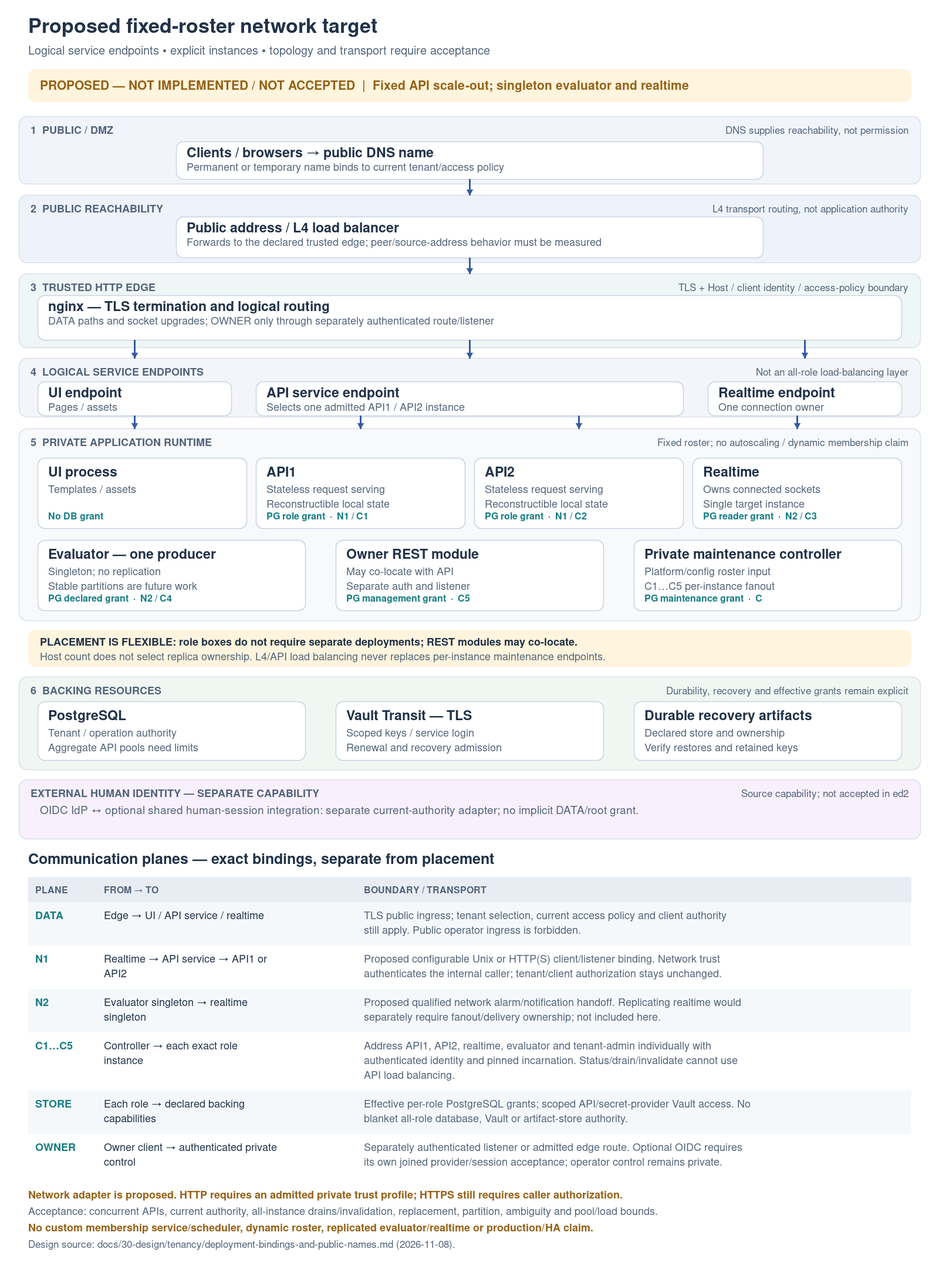
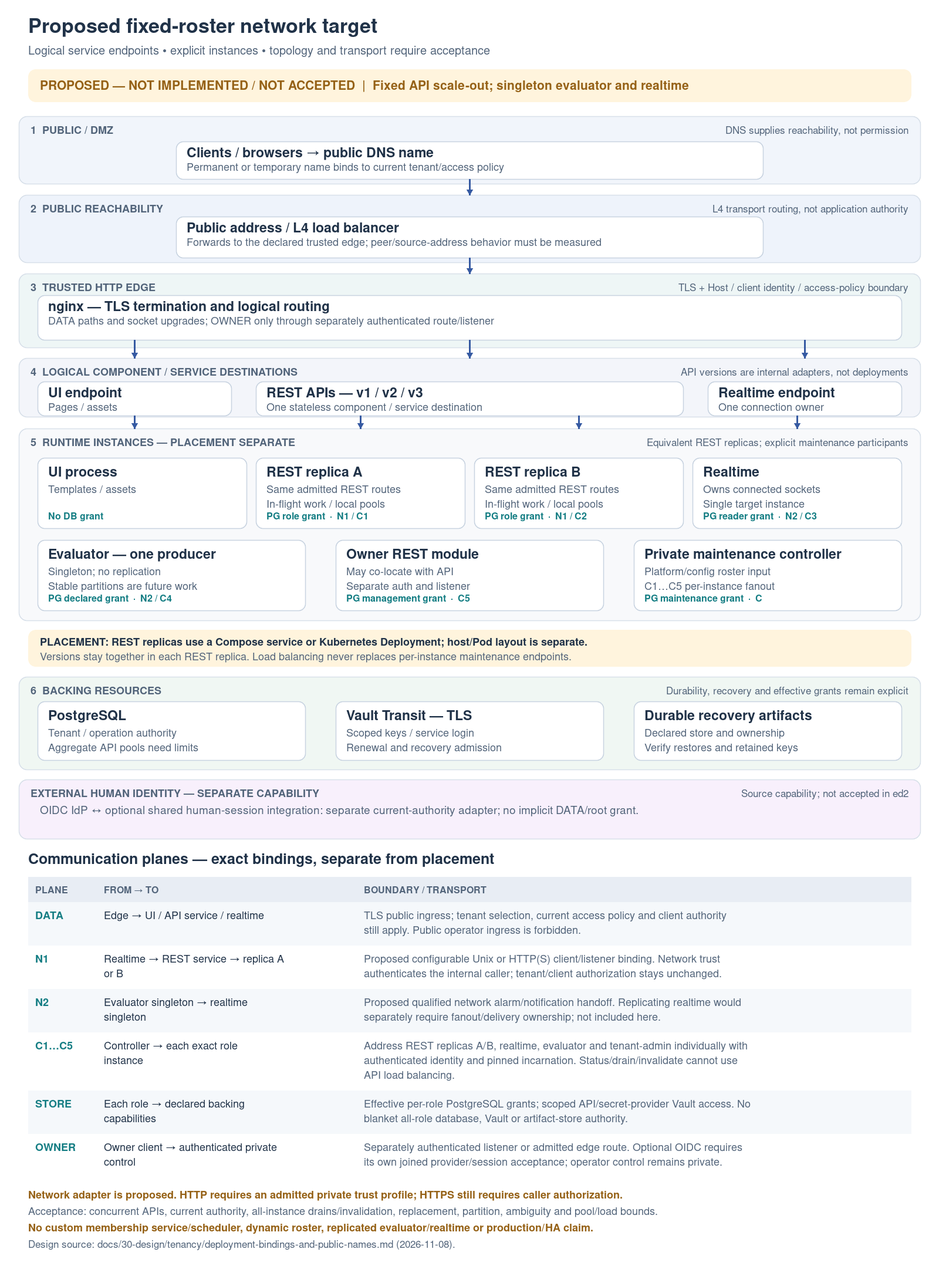
Show versioned REST APIs as one stateless component

diff --git a/tools/site/render_tenancy_topologies.py b/tools/site/render_tenancy_topologies.py
@@ -97,12 +97,12 @@ def accepted():
     p.zone(350, 167, '2  EDGE TRUST BOUNDARY', 'Accepted public-facing protocol: HTTP', '#eef6f6')
     p.card(64, 392, 1472, 'nginx — logical routing', ['Preserve configured Host; strip selector headers; public owner/operator paths refused'], h=94)
     p.zone(535, 105, '3  LOGICAL PUBLIC ENDPOINTS', 'Endpoints are not extra processes', '#f3f5fa')
-    for x,w,title,lines in [(64,456,'UI / assets',['Shipping UI']), (572,456,'DATA / API',['Existing versioned routes']), (1080,456,'DATA / realtime',['Main and alarm sockets'])]:
+    for x,w,title,lines in [(64,456,'UI / assets',['Shipping UI']), (572,456,'REST APIs',['Admitted versioned routes']), (1080,456,'DATA / realtime',['Main and alarm sockets'])]:
         p.card(x,577,w,title,lines,h=60)
     for x in [292,800,1308]:
         p.arrow([(x,486),(x,535)])
     p.zone(659, 330, '4  PRIVATE APPLICATION RUNTIME', 'Separate role processes; fixed participant roster', '#f8f9fb')
-    for x,title,lines,terminal in [(64,'UI process',['Templates and assets','No DB credentials'],'DATA: public edge only'),(572,'API process',['Request frames / writes','Current tenant authority'],'PG: role grant  ·  Vault: scoped'),(1080,'Realtime process',['Owns connections / frames','Forwards mutations to API'],'PG: reader grant  ·  U1 / U2')]:
+    for x,title,lines,terminal in [(64,'UI process',['Templates and assets','No DB credentials'],'DATA: public edge only'),(572,'REST APIs process',['Admitted v1 / v2 / v3 adapters','Stateless request serving'],'PG: role grant  ·  Vault: scoped'),(1080,'Realtime process',['Owns connections / frames','Forwards mutations to API'],'PG: reader grant  ·  U1 / U2')]:
         p.card(x,706,456,title,lines,terminal,h=120)
     for x in [292,800,1308]:
         p.arrow([(x,637),(x,659)])
@@ -137,12 +137,12 @@ def proposed():
     p.arrow([(800,439),(800,466)])
     p.zone(466,126,'3  TRUSTED HTTP EDGE', 'TLS + Host / client identity / access-policy boundary', '#eef6f6')
     p.card(64,503,1472,'nginx — TLS termination and logical routing',['DATA paths and socket upgrades; OWNER only through separately authenticated route/listener'],h=76)
-    p.zone(610,100,'4  LOGICAL SERVICE ENDPOINTS', 'Not an all-role load-balancing layer', '#f3f5fa')
-    for x,w,title,lines in [(64,330,'UI endpoint',['Pages / assets']),(436,728,'API service endpoint',['Selects one admitted API1 / API2 instance']),(1206,330,'Realtime endpoint',['One connection owner'])]:
+    p.zone(610,100,'4  LOGICAL COMPONENT / SERVICE DESTINATIONS', 'API versions are internal adapters, not deployments', '#f3f5fa')
+    for x,w,title,lines in [(64,330,'UI endpoint',['Pages / assets']),(436,728,'REST APIs — v1 / v2 / v3',['One stateless component / service destination']),(1206,330,'Realtime endpoint',['One connection owner'])]:
         p.card(x,650,w,title,lines,h=58)
     for x in [229,800,1371]:p.arrow([(x,579),(x,610)])
-    p.zone(730,327,'5  PRIVATE APPLICATION RUNTIME', 'Fixed roster; no autoscaling / dynamic membership claim', '#f8f9fb')
-    for x,title,lines,term in [(64,'UI process',['Templates / assets'],'No DB grant'),(436,'API1',['Stateless request serving','Reconstructible local state'],'PG role grant  ·  N1 / C1'),(808,'API2',['Stateless request serving','Reconstructible local state'],'PG role grant  ·  N1 / C2'),(1180,'Realtime',['Owns connected sockets','Single target instance'],'PG reader grant  ·  N2 / C3')]:
+    p.zone(730,327,'5  RUNTIME INSTANCES — PLACEMENT SEPARATE', 'Equivalent REST replicas; explicit maintenance participants', '#f8f9fb')
+    for x,title,lines,term in [(64,'UI process',['Templates / assets'],'No DB grant'),(436,'REST replica A',['Same admitted REST routes','In-flight work / local pools'],'PG role grant  ·  N1 / C1'),(808,'REST replica B',['Same admitted REST routes','In-flight work / local pools'],'PG role grant  ·  N1 / C2'),(1180,'Realtime',['Owns connected sockets','Single target instance'],'PG reader grant  ·  N2 / C3')]:
         p.card(x,780,356,title,lines,term,h=120)
     p.arrow([(229,708),(229,730)])
     p.arrow([(614,708),(614,730)])
@@ -151,8 +151,8 @@ def proposed():
     for x,title,lines,term in [(64,'Evaluator — one producer',['Singleton; no replication','Stable partitions are future work'],'PG declared grant  ·  N2 / C4'),(572,'Owner REST module',['May co-locate with API','Separate auth and listener'],'PG management grant  ·  C5'),(1080,'Private maintenance controller',['Platform/config roster input','C1…C5 per-instance fanout'],'PG maintenance grant  ·  C')]:
         p.card(x,920,456,title,lines,term,h=120)
     p.rect(48,1073,1504,62,'#fff4dd','none')
-    p.text(68,1100,'PLACEMENT IS FLEXIBLE: role boxes do not require separate deployments; REST modules may co-locate.',18,INK,'600')
-    p.text(68,1125,'Host count does not select replica ownership. L4/API load balancing never replaces per-instance maintenance endpoints.',18,MUTED)
+    p.text(68,1100,'PLACEMENT: REST replicas use a Compose service or Kubernetes Deployment; host/Pod layout is separate.',18,INK,'600')
+    p.text(68,1125,'Versions stay together in each REST replica. Load balancing never replaces per-instance maintenance endpoints.',18,MUTED)
     p.zone(1153,158,'6  BACKING RESOURCES', 'Durability, recovery and effective grants remain explicit', '#f0f7f3')
     for x,title,lines in [(64,'PostgreSQL',['Tenant / operation authority','Aggregate API pools need limits']), (572,'Vault Transit — TLS',['Scoped keys / service login','Renewal and recovery admission']), (1080,'Durable recovery artifacts',['Declared store and ownership','Verify restores and retained keys'])]:
         p.card(x,1195,456,title,lines,h=100)
@@ -160,9 +160,9 @@ def proposed():
     p.text(68,1387,'OIDC IdP ↔ optional shared human-session integration: separate current-authority adapter; no implicit DATA/root grant.',19,MUTED)
     y=p.table(1472,[
         ('DATA','Edge → UI / API service / realtime','TLS public ingress; tenant selection, current access policy and client authority still apply. Public operator ingress is forbidden.'),
-        ('N1','Realtime → API service → API1 or API2','Proposed configurable Unix or HTTP(S) client/listener binding. Network trust authenticates the internal caller; tenant/client authorization stays unchanged.'),
+        ('N1','Realtime → REST service → replica A or B','Proposed configurable Unix or HTTP(S) client/listener binding. Network trust authenticates the internal caller; tenant/client authorization stays unchanged.'),
         ('N2','Evaluator singleton → realtime singleton','Proposed qualified network alarm/notification handoff. Replicating realtime would separately require fanout/delivery ownership; not included here.'),
-        ('C1…C5','Controller → each exact role instance','Address API1, API2, realtime, evaluator and tenant-admin individually with authenticated identity and pinned incarnation. Status/drain/invalidate cannot use API load balancing.'),
+        ('C1…C5','Controller → each exact role instance','Address REST replicas A/B, realtime, evaluator and tenant-admin individually with authenticated identity and pinned incarnation. Status/drain/invalidate cannot use API load balancing.'),
         ('STORE','Each role → declared backing capabilities','Effective per-role PostgreSQL grants; scoped API/secret-provider Vault access. No blanket all-role database, Vault or artifact-store authority.'),
         ('OWNER','Owner client → authenticated private control','Separately authenticated listener or admitted edge route. Optional OIDC requires its own joined provider/session acceptance; operator control remains private.'),
     ])

diff --git a/docs/30-design/tenancy/tenant-admission-and-activity.md b/docs/30-design/tenancy/tenant-admission-and-activity.md
@@ -1,7 +1,8 @@
 # Tenant admission, activity and recovery
 
-*Contributor-facing decision-preparation guide, 2026-11-08. **Proposed policy;
-not adopted or implemented by this document.** The maintainer raised whether operator-controlled tenant inactivity should
+*Contributor-facing decision-preparation guide, 2026-11-08. **Activity policy proposed;
+not adopted or implemented.** The REST component direction below is recorded
+separately in the [release decisions](../../../releases/cgm-remote-monitor-16.0.0/decisions.md#rest-api-component-and-replica-placement-2026-11-08). The maintainer raised whether operator-controlled tenant inactivity should
 prevent unnecessary background work and asks how business APIs,
 connector workers, evaluator and restoration fit together. This guide separates
 that proposal from the existing maintenance protocol. Mechanism assessment is
@@ -14,9 +15,33 @@ and [owner authority](owner-authority.md) retain their adopted meaning.*
 
 ## One logical API does not require one listener or process
 
-The business REST surface can be understood as one logical component with data,
-authorization and owner-management capabilities. A logical component describes
-responsibility. A listener describes who can reach which interface and with which
+**Architecture direction: REST APIs (v1/v2/v3) are one stateless request-serving
+component.** Version-specific routers/adapters live inside that component; API
+version numbers do not select separate processes, services or scaling groups.
+Each replica serves the same configured, admitted route set. Compose service
+instances and a Kubernetes Deployment are alternative placement/lifecycle
+mechanisms for that component; neither is a new route-acceptance claim or a
+requirement to demonstrate Kubernetes now.
+
+“Stateless” means no replica owns authoritative tenant data or an exclusive
+clinical evaluation workload. Durable authority, clinical state and operation
+records remain in their backing stores. Each replica still owns connections,
+in-flight responses, pools and reconstructible startup/cache state, so it must
+participate in maintenance drain and invalidation. Do not require client affinity
+or introduce per-version deployment boundaries as part of API scale-out.
+
+The source already composes configured API3 and legacy routers in one API role:
+[preview-api.js:110](https://github.com/nightscout/cgm-remote-monitor/blob/ed2ced00c80bd0a6a7d75f834d2c6e2af8c71364/lib/server/serve/preview-api.js#L110),
+[tenant-app/index.js:187](https://github.com/nightscout/cgm-remote-monitor/blob/ed2ced00c80bd0a6a7d75f834d2c6e2af8c71364/lib/server/tenant-app/index.js#L187),
+[:217](https://github.com/nightscout/cgm-remote-monitor/blob/ed2ced00c80bd0a6a7d75f834d2c6e2af8c71364/lib/server/tenant-app/index.js#L217).
+These read-derived mechanisms support the component boundary; the acceptance
+family still owns exactly which routes/clients were exercised. Internal
+v1/v2/v3 adapters retain their reply, authentication and compatibility rules.
+
+The business REST surface groups data, authorization and owner-management
+capabilities. Owner operations retain their separate audience/listener and
+privileges, even when their module is colocated with request-serving API. A
+logical component describes responsibility. A listener describes who can reach which interface and with which
 audience. A process describes placement, resource custody and failure coupling.
 Grouping REST business APIs does not merge their credentials, privileges or trust
 boundaries, and it does not put every worker or maintenance engine inside HTTP

diff --git a/releases/cgm-remote-monitor-16.0.0/contents.md b/releases/cgm-remote-monitor-16.0.0/contents.md
@@ -2055,3 +2055,12 @@ Local lane handoff: `externals/work/HANDOFF-database-site-20261108.md`.
 | Tenant admission | [Activity/admission review](../../docs/30-design/tenancy/tenant-admission-and-activity.md) separates proposed operator resource policy from claim-bound maintenance safety, observed health and current authority. APIs honor common admission/drain/invalidation without each owning restore orchestration. | The user raised operator inactivity as a design question; no inactive/pause/suspend schema, capability default or transition authority is adopted. Existing pause/suspend definitions stand. Restore completion must be considered separately from operator eligibility in the proposed acceptance cases. |
 | Queue and decision index | Reconciled current TEN-RESOLVE and T30-TENANT-ADMIN gaps against later bounded acceptance; retained native gate pins and historical scope. MT-API-FIXED-ROSTER links generic admission obligations; the decision index now exposes the unresolved activity-policy topic. | Claimed states unchanged; runtime/activity implementation remains unmeasured. No new parent prerequisite, milestone promotion, release or production admission. |
 | Deployment/map assumptions | Linked the deployment guide and platform map to the selected endpoint/API scaling plan and adopted application database-ownership contract. | Fixed-roster API scaling is separate from evaluator replication; stronger raw-writer fencing is required only for an additional unsupported writer model. Historical captures unchanged. |
+
+
+### Update — unified REST component and separate replica placement (2026-11-08)
+
+| Scope | Recorded change | Boundary |
+|---|---|---|
+| REST component | [Current component contract](../../docs/30-design/tenancy/tenant-admission-and-activity.md#one-logical-api-does-not-require-one-listener-or-process) and D5 clarify one stateless REST APIs component containing version-specific v1/v2/v3 adapters. Endpoint/scaling/binding plans retain equivalent configured routes across replicas. | Read-derived source composition supports the architecture; no runtime or route-acceptance promotion. Transient request/pool/cache state still requires maintenance participation. |
+| Figures and historical guidance | Topology plates show one REST component and separately named replicas A/B. Accepted one-host plate retains the measured process composition. Older interface/deployable snapshots link the current contract; a separate v1-role option is historical, not the selected direction. | Existing version-specific compatibility, owner/DATA audiences, private orchestration and worker ownership remain. Captured evidence unchanged. |
+| Coordination | Database visual-review lane updates its SQL/component diagrams and platform map links from the same logical component boundary, then joins by ordinary merge. | Queue IDs/states, source/instrument attribution, existing route coverage and unmeasured scaling/cluster boundaries remain. |

diff --git a/releases/cgm-remote-monitor-16.0.0/decisions.md b/releases/cgm-remote-monitor-16.0.0/decisions.md
@@ -423,3 +423,10 @@ deployment has run.
 |---|---|---|---|
 | **Plan and queue selectable UDS/HTTP(S) endpoints and fixed-roster independent API scaling, preserving restore and existing clients.** | maintainer, 2026-11-08 | MT-ENDPOINT-TRANSPORT, MT-API-FIXED-ROSTER | [Implementation plan](../../docs/30-design/tenancy/selectable-endpoints-and-api-scaling-plan.md) defines source/instrument boundaries and planned controls. Runtime implementation and acceptance are not started/UNMEASURED. Keep service routing separate from per-instance restore addressing; no transport trust/default chosen implicitly. |
 | **Keep evaluator work singly owned; reuse orchestration primitives rather than building another membership service or scheduler. Kubernetes is an architecture frame and Jsonnet/deployment proof may be deferred.** | maintainer, 2026-11-08, scope clarification | Architecture and implementation plan | Current evaluator remains singleton. Predictable bounded work may favor singleton deployment when measured headroom and restart availability suffice; this sizing rule is distinct from logical single ownership. Future StatefulSet-style stable identities may supply disjoint partition identities; actual assignment/reassignment is a separate contract when pursued. The scoped native fixtures consume an explicit roster and test application lifetime/restore semantics. [Grid topology and coupling guide](../../docs/30-design/tenancy/runtime-topology.md) distinguishes platform inputs from application invariants. |
+
+
+### REST API component and replica placement (2026-11-08)
+
+| Decision | Basis and scope | Acceptance boundary |
+|---|---|---|
+| Keep v1/v2/v3 REST routers/adapters together in one stateless request-serving `api` component. Replicas repeat the same configured admitted route set; replica count and Compose/Kubernetes placement are separate from API versioning. | Maintainer requested this clarification after the source assessment; [component contract](../../docs/30-design/tenancy/tenant-admission-and-activity.md#one-logical-api-does-not-require-one-listener-or-process) links read-derived ed2 composition. Owner versus DATA audience/listener/credential boundaries remain; evaluator, realtime, connectors and private maintenance retain their responsibilities. | Architecture clarification, no runtime change. Stateless instances still drain actual responses and invalidate reconstructible state during maintenance. No extra route/client coverage, API replication, Kubernetes, production or HA acceptance. |

diff --git a/docs/30-design/tenancy/diagrams/README.md b/docs/30-design/tenancy/diagrams/README.md
@@ -5,7 +5,11 @@ read-derived; linked acceptance retains its actual source. Trust zones do not
 mean physical hosts, and logical endpoints do not imply additional processes.*
 
 - [Accepted one-host reference — SVG](accepted-one-host-topology.svg) / [PNG](accepted-one-host-topology.png): ed2 cold Compose/UI/restore and c23 native separate-role restart evidence, within the [operation-window acceptance family](../../../../reports/tenancy/operation-window-acceptance-2026-11-07/README.md). Its public-facing synthetic origin uses HTTP; Vault uses TLS. No OIDC, external ingress TLS, capacity or production acceptance is added by the drawing.
-- [Proposed fixed-roster network target — SVG](proposed-fixed-roster-network-topology.svg) / [PNG](proposed-fixed-roster-network-topology.png): the [configurable transport/API-scale proposal](../deployment-bindings-and-public-names.md#configurable-transports-and-independently-scaled-api). API1/API2 are explicit instances, realtime owns connections, evaluator remains one producer, and maintenance uses per-instance endpoints plus platform/config-supplied roster input. No custom membership service, evaluator scheduler, dynamic roster or Kubernetes resource design is selected. Network transport, remote trust and scale acceptance remain open.
+- [Proposed fixed-roster network target — SVG](proposed-fixed-roster-network-topology.svg) / [PNG](proposed-fixed-roster-network-topology.png): the [configurable transport/API-scale proposal](../deployment-bindings-and-public-names.md#configurable-transports-and-independently-scaled-api). REST replica A/B are explicit instances of one stateless REST APIs (v1/v2/v3) component, realtime owns connections, evaluator remains one producer, and maintenance uses per-instance endpoints plus platform/config-supplied roster input. No custom membership service, evaluator scheduler, dynamic roster or Kubernetes resource design is selected. Network transport, remote trust and scale acceptance remain open.
+
+Version numbers label internal REST adapters, not services. Replica count and
+Compose/Kubernetes placement are separate from that logical component; no new
+route coverage or Kubernetes acceptance follows from the label.
 
 The proposed role boxes do not mandate separate deployments: owner REST may
 co-locate with API while retaining its audience/listener boundary. Private

diff --git a/docs/30-design/tenancy/runtime-topology.md b/docs/30-design/tenancy/runtime-topology.md
@@ -42,7 +42,8 @@ production ingress, capacity or identity integration.
 
 This is the proposed architecture for the queued endpoint/API capability, not a
 Kubernetes resource design, an accepted multihost deployment or a replicated
-clinical workload. API1/API2 are the minimal explicit scale-out fixture. Realtime
+clinical workload. REST replica A and replica B are two instances of the same component, not API
+versions. They are the minimal explicit scale-out fixture. Realtime
 retains its connected clients and evaluator remains one active workload owner.
 Network locations, public TLS and optional human identity retain their own
 implementation/admission boundaries. PostgreSQL grants, Vault use and private
@@ -50,13 +51,21 @@ operator reachability remain role-specific; being in one zone grants no authorit
 
 ## Logical REST cohesion and worker placement
 
-A logical application component, an HTTP listener and a deployed process are
-separate boundaries. The diagrams show one valid process composition, not a
+**REST APIs (v1/v2/v3) form one stateless request-serving component.** Version
+routers/adapters stay together; replicas serve the same configured admitted
+routes. A logical application component, an HTTP listener and a deployed process
+are separate boundaries. The diagrams show one valid process composition, not a
 requirement to make each REST module a separate service. Data, authorization and
 owner-management REST modules may form one logical API component, retaining their
 separate credentials/audiences and listener requirements. The existing owner
 contract permits colocation with API; it does not collapse private operator
 privileges into ordinary request-serving credentials.
+
+Compose service instances or a Kubernetes Deployment can place replicas of that
+same component. Replica count and host/Pod placement are separate from API
+versioning; this architecture choice does not claim cluster or scaling acceptance.
+Stateless replicas retain in-flight work and reconstructible local state, so
+every actual instance still participates in maintenance drain/invalidation.
 
 The source-backed [component placement and admission review](tenant-admission-and-activity.md#one-logical-api-does-not-require-one-listener-or-process)
 is the home of the REST/worker placement assessment. It identifies private

diff --git a/docs/30-design/tenancy/multitenancy-decisions.md b/docs/30-design/tenancy/multitenancy-decisions.md
@@ -25,7 +25,7 @@ current execution plan; archived “next” instructions are historical.
 | <a id="d2"></a>**D2** — shared storage | Shared logical storage with a tenant discriminator, rather than a database per tenant. The retained database experiments own the comparative cost evidence. |
 | <a id="d3"></a>**D3** — isolation | PostgreSQL with RLS for multitenancy. Serving connections must not own tables or bypass RLS; trusted tenant binding is transaction-local. A missing binding must not expose other tenants. |
 | <a id="d4"></a>**D4** — MongoDB | MongoDB remains permanent for single-tenant sites. The storage seam carries two mature backends; an adapter change must preserve single-tenant behavior. |
-| <a id="d5"></a>**D5** — workload roles | One core, with multitenant `api`, change-driven `evaluator`, fan-out `realtime` and connector `vcpool`; `single` keeps its server. D21 packages roles under one executable. |
+| <a id="d5"></a>**D5** — workload roles | One core, with one stateless multitenant `api` component containing v1/v2/v3 REST adapters, change-driven `evaluator`, fan-out `realtime` and connector `vcpool`; `single` keeps its server. D21 packages roles under one executable. |
 | <a id="d6"></a>**D6** — feed | Replication slot as the durable spine, reader-emitted `NOTIFY` for latency, bounded aggregate polling as backstop. Never emit notifications from a write trigger. B7 supplies later replay/checkpoint semantics; no direct `api` → `realtime` data stream is adopted. |
 | <a id="d7"></a>**D7** — operator plane | Platform administration has its own entrypoint/network interface and is secured by unreachability, without a deployment API credential. Tenant administration is authenticated and tenant-bound; D16 gives it a separate listener. |
 | <a id="d8"></a>**D8** — query contract | API v3's closed operator set is the initial query contract; v1 is bounded by client/corpus evidence. Use `mingo` as a differential oracle, with live-backend checks where oracle semantics differ. |

diff --git a/docs/30-design/tenancy/nightscout-deployable-components-2026-09-14.md b/docs/30-design/tenancy/nightscout-deployable-components-2026-09-14.md
@@ -1,12 +1,19 @@
 # Deployable components: entrypoints, program structure, and what an operator actually runs
 
-*Contributor-facing.* **Snapshot, written 2026-09-14. Current: the only statement of the
-deployable-component decomposition.** Its recommendation was adopted as **D5** (four hosted
+*Contributor-facing.* **Snapshot, written 2026-09-14.** Its recommendation was adopted as **D5** (four hosted
 entrypoints plus `single`) and **D6** (the change feed), and is extended by **D7** (`ns-admin`,
 the platform-admin plane) and **D16** (three listeners by audience) — [execution plan §1](multitenancy-decisions.md#1-decisions).
 Task state lives in [`queue/QUEUE.md`](../../../queue/QUEUE.md). Measurements carry their own dates
 and are post-#8733. Companion to [Nightscout multitenancy: evidence and options](nightscout-multitenancy-discussion-2026-09-09.md)
 and [What sets K](../../60-research/tenancy/multitenancy-k-and-residency-2026-09-14.md).
+
+**Current component interpretation, 2026-11-08:** the
+[REST component contract](tenant-admission-and-activity.md#one-logical-api-does-not-require-one-listener-or-process)
+keeps version-specific v1/v2/v3 adapters together in one stateless REST API
+component. Replica count and physical deployment are separate from versioning;
+current accepted placement is in the [runtime topology](runtime-topology.md).
+The snapshot below retains its original measurements and recommendations; it does
+not independently admit scaling, scale-to-zero or complete route coverage.
 
 **Nothing here is a proposal to merge.** This answers a specific question: given everything
 the experiments measured, *what are the deployable units*, what goes in each, how do they

diff --git a/docs/30-design/tenancy/selectable-endpoints-and-api-scaling-plan.md b/docs/30-design/tenancy/selectable-endpoints-and-api-scaling-plan.md
@@ -20,12 +20,20 @@ filesystem Unix socket or an explicitly configured HTTP(S) endpoint. HTTPS needs
 verified service and caller identity; cleartext HTTP requires an explicitly
 admitted private deployment trust profile. An address alone grants no capability.
 
-After that capability is accepted, a fixed deployment can declare more than one
-API participant. Ordinary HTTP requests and realtime-to-API authorization/mutation
+The REST APIs (v1/v2/v3) remain one stateless request-serving component, with
+version-specific routers/adapters inside it. Replication scales that whole
+component; each equivalent replica serves the same configured admitted routes.
+Neither capability creates version-specific services or scaling groups. Compose
+service instances and a Kubernetes Deployment are alternative runtime placement
+mechanisms; platform proof remains deferred.
+
+After transport acceptance, a fixed deployment can declare more than one API
+participant. Ordinary HTTP requests and realtime-to-API authorization/mutation
 may use an admitted service destination. Restore addresses every actual API
 instance separately, pins its incarnation and awaits the existing drain and
 invalidation protocol. The minimal acceptance fixture moves from one API to two
-declared APIs with the same synthetic tenants; other role counts stay unchanged.
+declared APIs with the same synthetic tenants and admitted version-route configuration; other
+role counts stay unchanged. Version labels identify adapters, never replicas.
 
 These are capability boundaries within the existing preview. The accepted
 baseline is usable despite broader parent items remaining in progress. Neither

diff --git a/docs/30-design/tenancy/single-and-multitenant-architecture.md b/docs/30-design/tenancy/single-and-multitenant-architecture.md
@@ -150,7 +150,7 @@ flowchart LR
     direction TB
     MClient["Supported client<br/>request shapes"] --> Resolve["Configured Host / trusted edge<br/>to stable tenant identity"]
     Resolve --> MAuth["Tenant credential verification<br/>current persisted grants"]
-    MAuth --> MAPI["Reused version handlers<br/>explicit route admission"]
+    MAuth --> MAPI["REST APIs — one stateless component<br/>v1 / v2 / v3 adapters, admitted routes"]
     MAPI --> MRules["Reused domain normalization<br/>and write-intent rules"]
     MRules --> MPG["Injected PostgreSQL ports<br/>tenant transaction and RLS"]
     MPG --> Frame["Request-local tenant snapshot<br/>and property calculations"]
@@ -162,6 +162,11 @@ flowchart LR
   classDef shared fill:#e2eff0,stroke:#1d6b73,color:#17262a
   class SAPI,SRules,MAPI,MRules shared
 ```
+
+The multitenant [REST component contract](tenant-admission-and-activity.md#one-logical-api-does-not-require-one-listener-or-process)
+keeps versioned routers together; replicas and Compose/Kubernetes placement are
+separate from versioning. This diagram groups admitted handlers and does not
+extend route coverage.
 
 The default single process retains its resident runtime. The preview builds
 request-local frames using the shipping loader/cache and property setters for

diff --git a/docs/30-design/platform/interface-ownership-2026-10-27.md b/docs/30-design/platform/interface-ownership-2026-10-27.md
@@ -10,6 +10,15 @@ plan" the [execution plan](../tenancy/multitenancy-decisions.md), "v4 doc"
 the [v4 surface](v4-surface-and-nocturne-2026-10-26.md), "§F.1" the
 [tenant-owner configuration surface](../tenancy/tenant-owner-config-surface-2026-09-15.md).*
 
+**Current architecture clarification, 2026-11-08 (read-derived):** the
+[REST component contract](../tenancy/tenant-admission-and-activity.md#one-logical-api-does-not-require-one-listener-or-process)
+places v1/v2/v3 routers/adapters together in one stateless REST API component.
+Replicas and Compose/Kubernetes placement are separate dimensions. The questions
+below retain this snapshot's historical alternatives; §5 question 7's separate
+v1-role option is superseded by that component direction. Its original source
+claims are not current route-acceptance claims. Owner and operator audiences retain
+their existing listener/privilege boundaries.
+
 **Summary.** On dev today one listener serves everything: API v1, v2 and v3, the socket.io channels,
 the pages and, in #8857 behind a flag, `/.well-known` and `/api/v4`. `API_SECRET` is both the device
 credential and the owner credential.

diff --git a/docs/30-design/tenancy/deployment-bindings-and-public-names.md b/docs/30-design/tenancy/deployment-bindings-and-public-names.md
@@ -94,6 +94,13 @@ distinguishes generic participant gating from owning the restoration workflow.
 
 ### Configurable transports and independently scaled API
 
+REST APIs (v1/v2/v3) are one stateless request-serving component with internal
+version-specific adapters. A Compose service or Kubernetes Deployment runs
+instances of that component; replica count and placement do not split API
+versions. Each replica serves the same configured admitted route set. See the
+[component contract](tenant-admission-and-activity.md#one-logical-api-does-not-require-one-listener-or-process)
+for transient-state, maintenance and owner-audience boundaries.
+
 **Read-derived mechanism assessment:** there is no architectural requirement
 that the request-serving API have a single replica or share a host with realtime.
 The [current cohort specification](https://github.com/nightscout/cgm-remote-monitor/blob/ed2ced00c80bd0a6a7d75f834d2c6e2af8c71364/docs/tenant-operation-cohort.md#L3)
